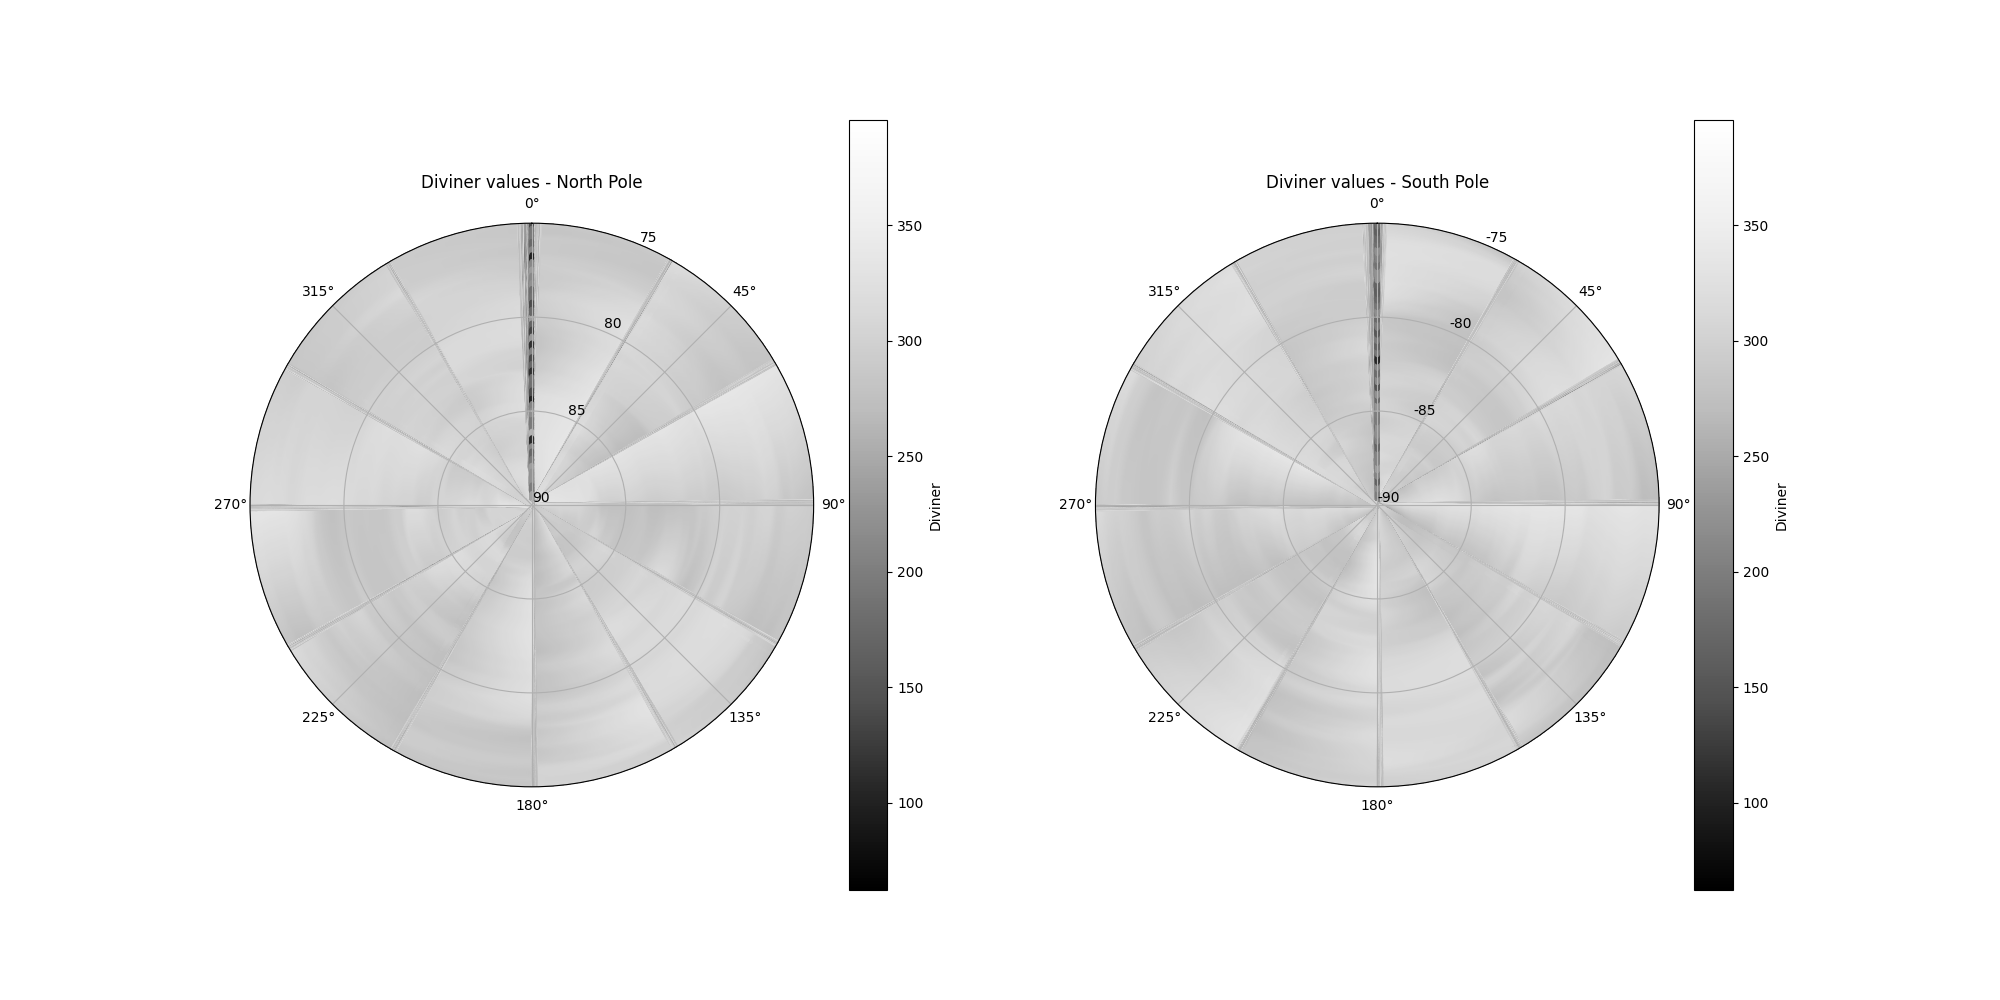
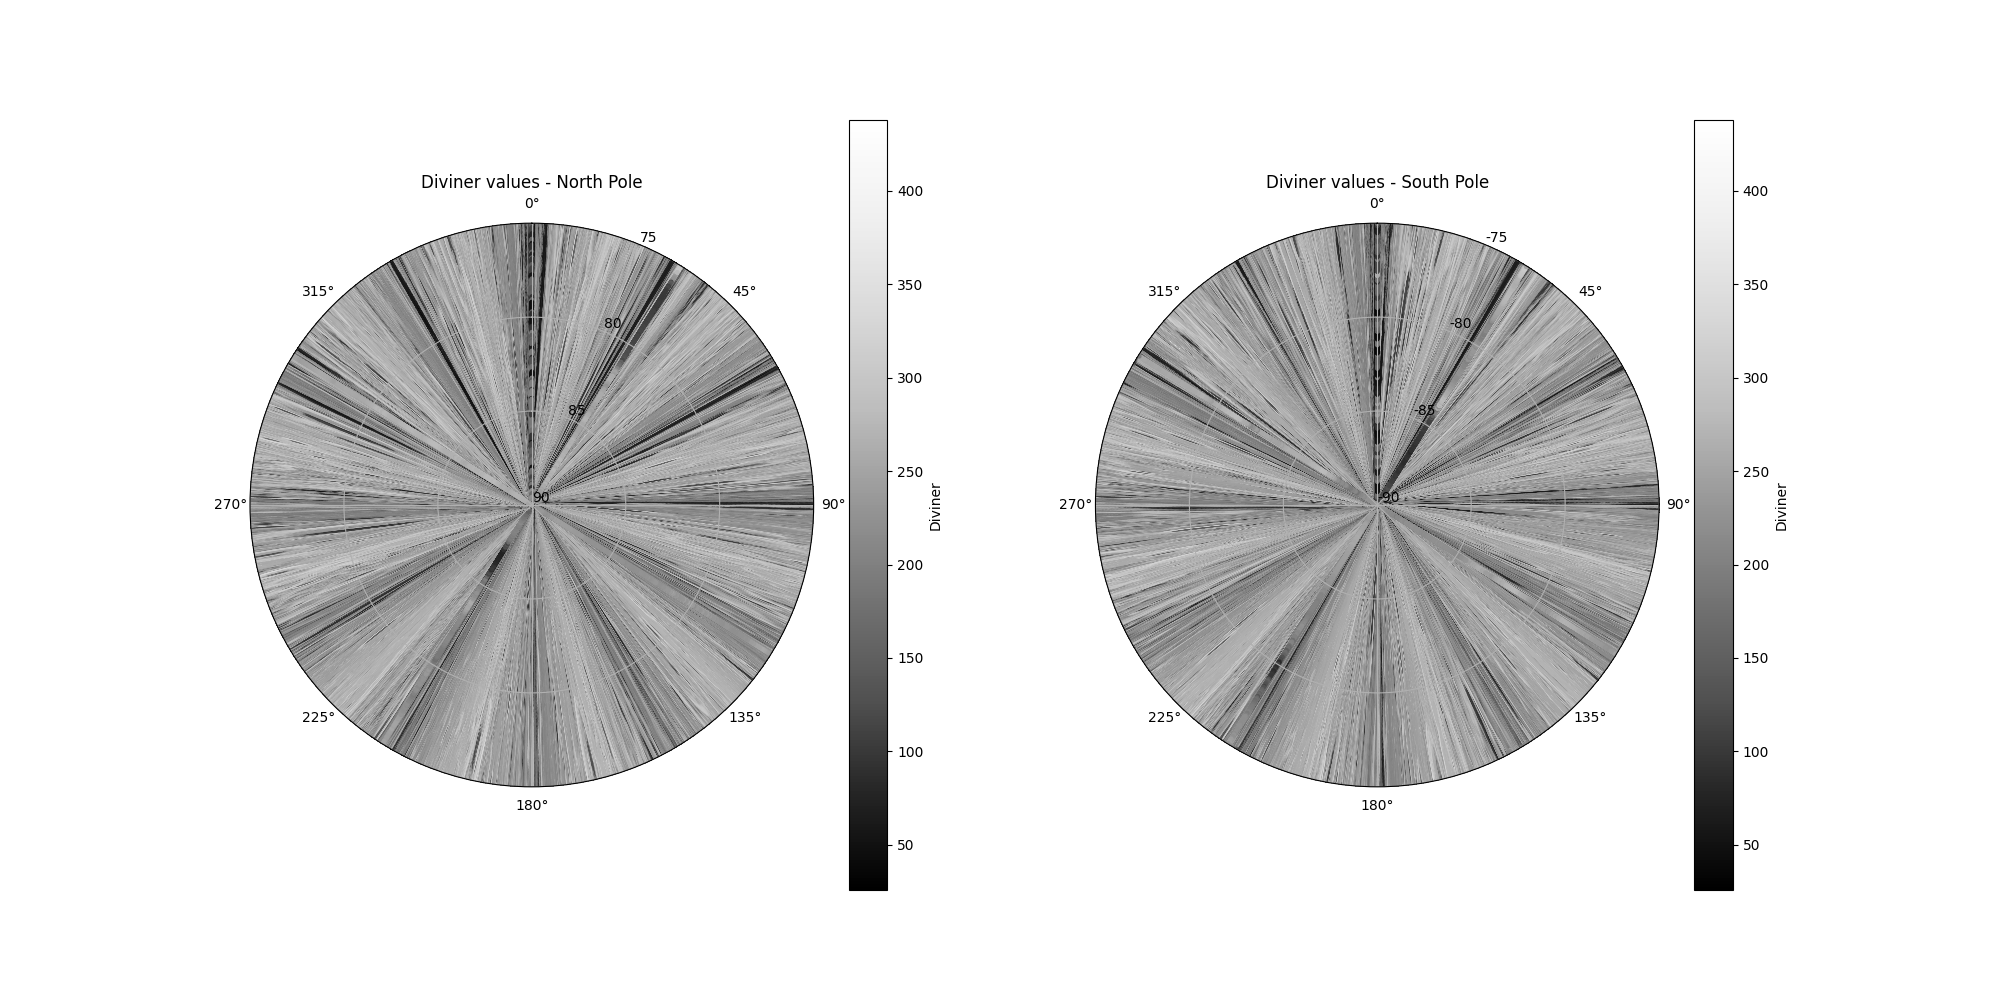
Plot changes

diff --git a/data_processing/utils/interp.py b/data_processing/utils/interp.py
@@ -4,6 +4,7 @@ from scipy.interpolate import Rbf, griddata
 import os
 import sys
 from scipy.stats import binned_statistic_2d
+from scipy.spatial import cKDTree
 
 from data_processing.utils.utils import generate_mesh, save_by_lon_range, plot_polar_data, load_every_nth_line
 
@@ -127,7 +128,6 @@ def interpolate_using_griddata(df, lon_lat_grid_north, lon_lat_grid_south, metho
     lons = df['Longitude'].values
     lats = df['Latitude'].values
     values = df[data_type].values
-    
     points = np.column_stack((lons, lats))
 
     # Interpolation on northern mesh grid
@@ -167,62 +167,72 @@ def interpolate_using_griddata(df, lon_lat_grid_north, lon_lat_grid_south, metho
     return interpolated_df
 
 
-def interpolate_diviner(df, lon_lat_grid_north, lon_lat_grid_south, method='linear', n_bins=100):
-    # Extract data
+def interpolate_diviner(df, lon_lat_grid_north, lon_lat_grid_south, method='linear'):
     lons = df['Longitude'].values
     lats = df['Latitude'].values
     values = df['Diviner'].values
 
-    # Spatial binning and compute maxima in each bin
-    lon_bins = np.linspace(lons.min(), lons.max(), n_bins + 1)
-    lat_bins = np.linspace(lats.min(), lats.max(), n_bins + 1)
+    assert np.all(np.abs(lats) >= 75), "Diviner data contains points between lat 75 and -75"
 
-    max_temp, _, _, _ = binned_statistic_2d(
-        x=lons, y=lats, values=values, statistic='max', bins=(lon_bins, lat_bins)   # type: ignore
-    )
+    lon_grid_north, lat_grid_north = lon_lat_grid_north[:, 0], lon_lat_grid_north[:, 1]
+    lon_grid_south, lat_grid_south = lon_lat_grid_south[:, 0], lon_lat_grid_south[:, 1]
 
-    # Compute centers of bins
-    lon_centers = (lon_bins[:-1] + lon_bins[1:]) / 2
-    lat_centers = (lat_bins[:-1] + lat_bins[1:]) / 2
-    lon_grid, lat_grid = np.meshgrid(lon_centers, lat_centers)
+    north_mask = lats >= 75
+    south_mask = lats <= -75
 
-    # Flatten grids and filter valid points
-    valid_mask = ~np.isnan(max_temp.ravel())
-    points = np.column_stack((lon_grid.ravel()[valid_mask], lat_grid.ravel()[valid_mask]))
-    max_values = max_temp.ravel()[valid_mask]
+    points_n = np.column_stack((lons[north_mask], lats[north_mask]))
+    values_n = values[north_mask]
 
-    # Interpolate onto northern and southern grids
-    lon_grid_n = lon_lat_grid_north[:, 0]
-    lat_grid_n = lon_lat_grid_north[:, 1]
-    coords_n = np.column_stack((lon_grid_n, lat_grid_n))
+    points_s = np.column_stack((lons[south_mask], lats[south_mask]))
+    values_s = values[south_mask]
 
-    interp_n = griddata(points, max_values, coords_n, method=method)
+    grid_n = np.column_stack((lon_grid_north, lat_grid_north))
+    grid_s = np.column_stack((lon_grid_south, lat_grid_south))
 
-    lon_grid_s = lon_lat_grid_south[:, 0]
-    lat_grid_s = lon_lat_grid_south[:, 1]
-    coords_s = np.column_stack((lon_grid_s, lat_grid_s))
+    print("Points stacked"); sys.stdout.flush()
 
-    interp_s = griddata(points, max_values, coords_s, method=method)
+    interp_n = max_rad_interp(points_n, values_n, grid_n)
+    interp_s = max_rad_interp(points_s, values_s, grid_s)
+
+    print("Interpolated"); sys.stdout.flush()
 
     # Fill gaps with nearest interpolation
     if np.any(np.isnan(interp_n)):
         nan_idx_north = np.isnan(interp_n)
-        interp_n[nan_idx_north] = griddata(
-            points, max_values, coords_n[nan_idx_north], method='nearest'
-        )
+        interp_n[nan_idx_north] = griddata(points_n, values, grid_n[nan_idx_north], method='nearest')
 
     if np.any(np.isnan(interp_s)):
         nan_idx_south = np.isnan(interp_s)
-        interp_s[nan_idx_south] = griddata(
-            points, max_values, coords_s[nan_idx_south], method='nearest'
-        )
+        interp_s[nan_idx_south] = griddata(points_n, values, grid_s[nan_idx_south], method='nearest')
+
     interpolated_df = pd.DataFrame({
-        'Longitude': np.concatenate([lon_grid_n, lon_grid_s]),
-        'Latitude': np.concatenate([lat_grid_n, lat_grid_s]),
+        'Longitude': np.concatenate([lon_grid_north, lon_grid_south]),
+        'Latitude': np.concatenate([lat_grid_north, lat_grid_south]),
         'Diviner': np.concatenate([interp_n, interp_s])
     })
 
     return interpolated_df
+
+
+def max_rad_interp(points, values, targets, radius_degs=0.5):
+    tree = cKDTree(points)
+    print("Built tree"); sys.stdout.flush()
+    idx_lists = tree.query_ball_point(targets, r=radius_degs)   # Vectorised query for all targets
+    print("Queried"); sys.stdout.flush()
+
+    interpolated = np.empty(len(targets), dtype=float)
+    points_per_target = np.array([len(idxs) for idxs in idx_lists])
+    print(f"Average num points per target: {np.mean(points_per_target)}")
+    print(f"Min num points per target: {np.min(points_per_target)}")
+    print(f"Max num points per target: {np.max(points_per_target)}")
+    sys.stdout.flush()
+
+    for i, idxs in enumerate(idx_lists):
+        if idxs:
+            interpolated[i] = np.nanmax(values[idxs])   # Take max if possible
+        else:
+            interpolated[i] = np.nan    # Set to nan if no points
+    return interpolated
 
 
 def interpolate(data_dict, data_type, plot_save_path=None, method='linear', debug=False):
@@ -244,19 +254,17 @@ def interpolate(data_dict, data_type, plot_save_path=None, method='linear', debu
 
     for (csv, (lon_lat_grid_north, lon_lat_grid_south)) in zip(csvs, meshes):
         df = pd.read_csv(f"{data_dict['save_path']}/{csv}")
-        print(f"{len(df)} rows in raw csv: {csv}")
 
         if data_type == 'Diviner':
-            print(f"Interpolating Diviner data for {csv}")
             weights = df[data_type].values / df[data_type].sum()
             df = df.sample(frac=div_frac, weights=weights, random_state=42)    # Resample Diviner data, weighted to higher values
-            interpolated_df = interpolate_diviner(df, lon_lat_grid_north, lon_lat_grid_south, n_bins=400)
+            print(f"Interpolating Diviner for {csv}"); sys.stdout.flush()
+            interpolated_df = interpolate_diviner(df, lon_lat_grid_north, lon_lat_grid_south)
+            print()
         else:
-            print(f"Interpolating {data_type} data for {csv}")
             elev = df['Elevation'].values if data_type == 'M3' else None
             interpolated_df = interpolate_using_griddata(df, lon_lat_grid_north, lon_lat_grid_south, method, elev, data_type)
     
-        print(f"Saving interpolated data length: {len(interpolated_df)}")
         save_by_lon_range(interpolated_df, save_path)
 
         del interpolated_df, df
